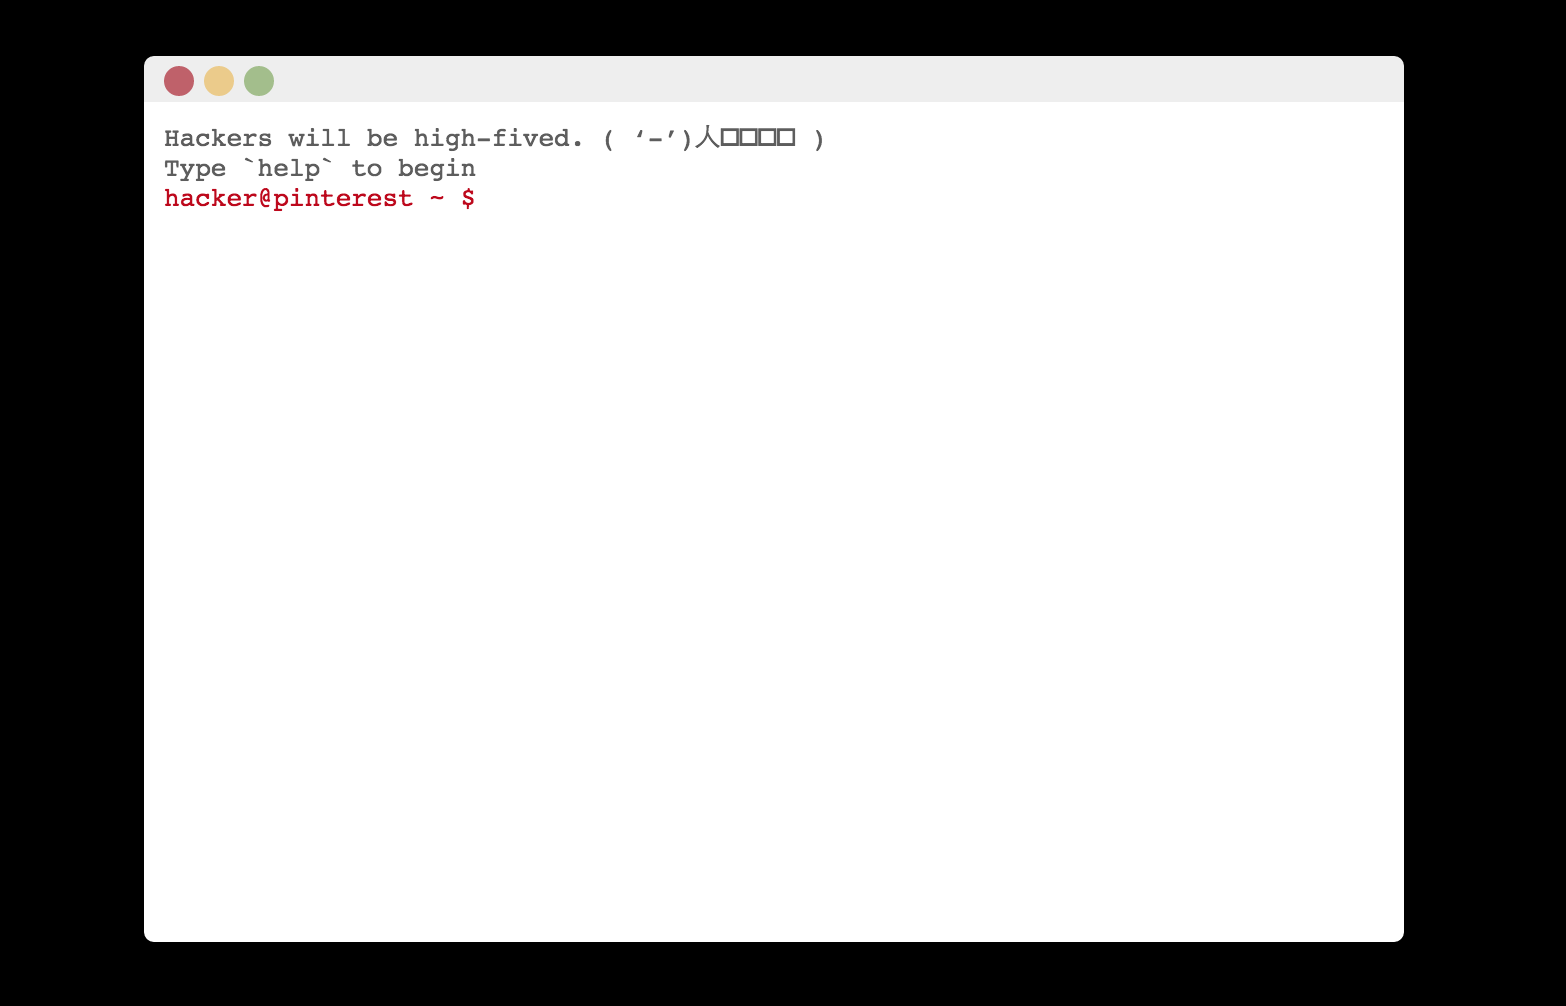
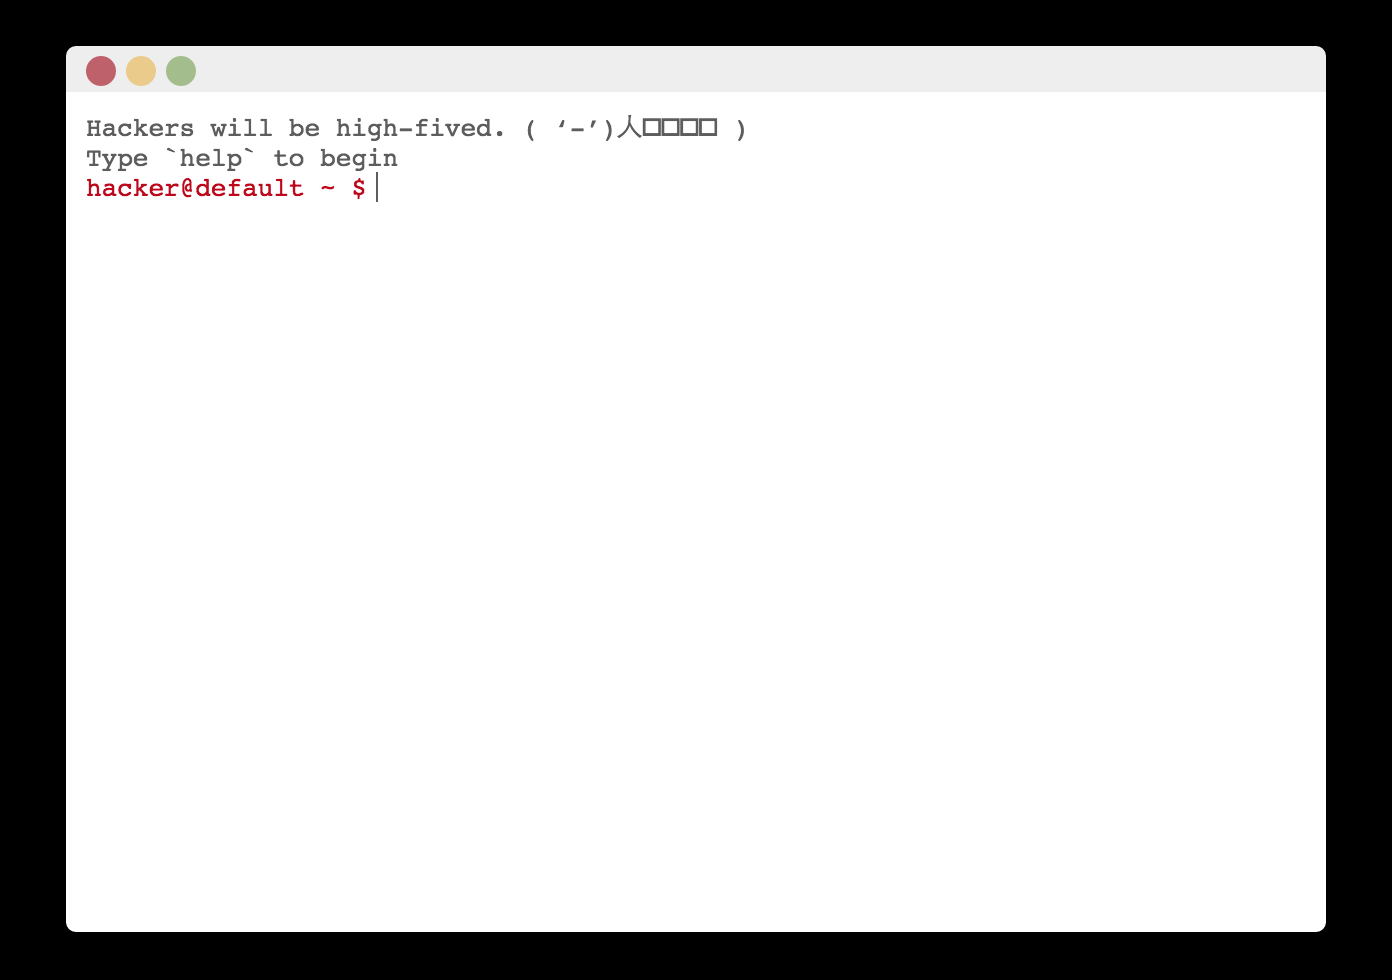
Add prefix prop

Changed region(s): [[0.0309, 0.0306, 0.9576, 0.949]]

diff --git a/src/component.js b/src/component.js
@@ -1,5 +1,6 @@
 import React, { Component, PropTypes } from 'react';
 import Bash from './bash';
+import Prefix from './prefix';
 import * as Styles from './styles';
 
 const CTRL_CHAR_CODE = 17;
@@ -7,14 +8,6 @@ const L_CHAR_CODE = 76;
 const UP_CHAR_CODE = 38;
 const DOWN_CHAR_CODE = 40;
 const TAB_CHAR_CODE = 9;
-
-const Prefix = ({ cwd }) => (
-    <span style={Styles.prefix}>{`hacker@pinterest ~${cwd} $`}</span>
-);
-
-Prefix.propTypes = {
-    cwd: PropTypes.string.isRequired,
-};
 
 export default class ReactBash extends Component {
 
@@ -29,6 +22,7 @@ export default class ReactBash extends Component {
         };
         this.handleKeyDown = this.handleKeyDown.bind(this);
         this.handleKeyUp = this.handleKeyUp.bind(this);
+        this.renderHistoryItem = this.renderHistoryItem.bind(this);
     }
 
     componentDidMount() {
@@ -110,11 +104,14 @@ export default class ReactBash extends Component {
     }
 
     renderHistoryItem(item, key) {
-        const prefix = item.hasOwnProperty('cwd') ? <Prefix cwd={item.cwd} /> : undefined;
+        const prefix = item.hasOwnProperty('cwd') ? (
+            <Prefix cwd={item.cwd} prefix={this.props.prefix} />
+        ) : undefined;
         return <div data-test-id={`history-${key}`} key={key} >{prefix}{item.value}</div>;
     }
 
     render() {
+        const { prefix } = this.props;
         const { history, cwd } = this.state;
         return (
             <div className="ReactBash" style={Styles.ReactBash}>
@@ -126,7 +123,7 @@ export default class ReactBash extends Component {
                 <div style={Styles.body} onClick={() => this.refs.input.focus()}>
                     {history.map(this.renderHistoryItem)}
                     <form onSubmit={evt => this.handleSubmit(evt)} style={Styles.form}>
-                        <Prefix cwd={cwd} />
+                        <Prefix cwd={cwd} prefix={prefix} />
                         <input
                           autoComplete="off"
                           onKeyDown={this.handleKeyDown}
@@ -145,12 +142,14 @@ ReactBash.propTypes = {
     extensions: PropTypes.object,
     history: PropTypes.array,
     structure: PropTypes.object,
+    prefix: PropTypes.string,
 };
 
 ReactBash.defaultProps = {
     extensions: {},
     history: [],
     structure: {},
+    prefix: 'hacker@default',
 };
 
 /*

diff --git a/tests/component.js b/tests/component.js
@@ -4,6 +4,7 @@ import React from 'react';
 import sinon from 'sinon';
 
 import ReactBash from '../src/index';
+import Prefix from '../src/prefix';
 
 const baseEvent = { preventDefault: () => {} };
 
@@ -35,6 +36,16 @@ describe('ReactBash component', () => {
             const wrapper = shallow(<ReactBash structure={structure} />);
             const state = wrapper.state();
             chai.assert.deepEqual(state.structure, structure);
+        });
+
+        it('should use the `prefix` prop in history and in the form', () => {
+            const prefix = 'foo@bar';
+            const history = [{ cwd: 'test', value: 'foo' }];
+            const wrapper = shallow(<ReactBash prefix={prefix} history={history} />);
+            const historyPrefix = wrapper.find('div[data-test-id="history-0"]').find(Prefix);
+            const formPrefix = wrapper.find('form').find(Prefix);
+            chai.assert.deepEqual(historyPrefix.props().prefix, prefix);
+            chai.assert.deepEqual(formPrefix.props().prefix, prefix);
         });
     });
 

diff --git a/src/prefix.js b/src/prefix.js
@@ -1,0 +1,14 @@
+import React, { Component, PropTypes } from 'react';
+import * as Styles from './styles';
+
+export default class Prefix extends Component {
+    render() {
+        const { cwd, prefix } = this.props;
+        return <span style={Styles.prefix}>{`${prefix} ~${cwd} $`}</span>;
+    }
+}
+
+Prefix.propTypes = {
+    cwd: PropTypes.string.isRequired,
+    prefix: PropTypes.string.isRequired,
+};

diff --git a/README.md b/README.md
@@ -16,6 +16,7 @@ prop         | description
 `extensions` | An object of bash command extensions
 `history`    | An array of initial history items
 `structure`  | An object representing the file system
+`prefix`     | The string used to prefix commands in history: defaults to `hacker@default`
 
 ### Extending the command list
 The `extension` prop is an easy way to extend the bash commands that can be parsed from the terminal input. In essence, each command is a state reducer returning a new terminal state. This provides a lot of flexibility. Each command has access to the `structure`, `history`, and `cwd`, and expects the object returned to be applied in `setState` of the React component. Note that each extension should keep the state immutable, otherwise the component will not update. Check out the code for the `clear` command as an example.
